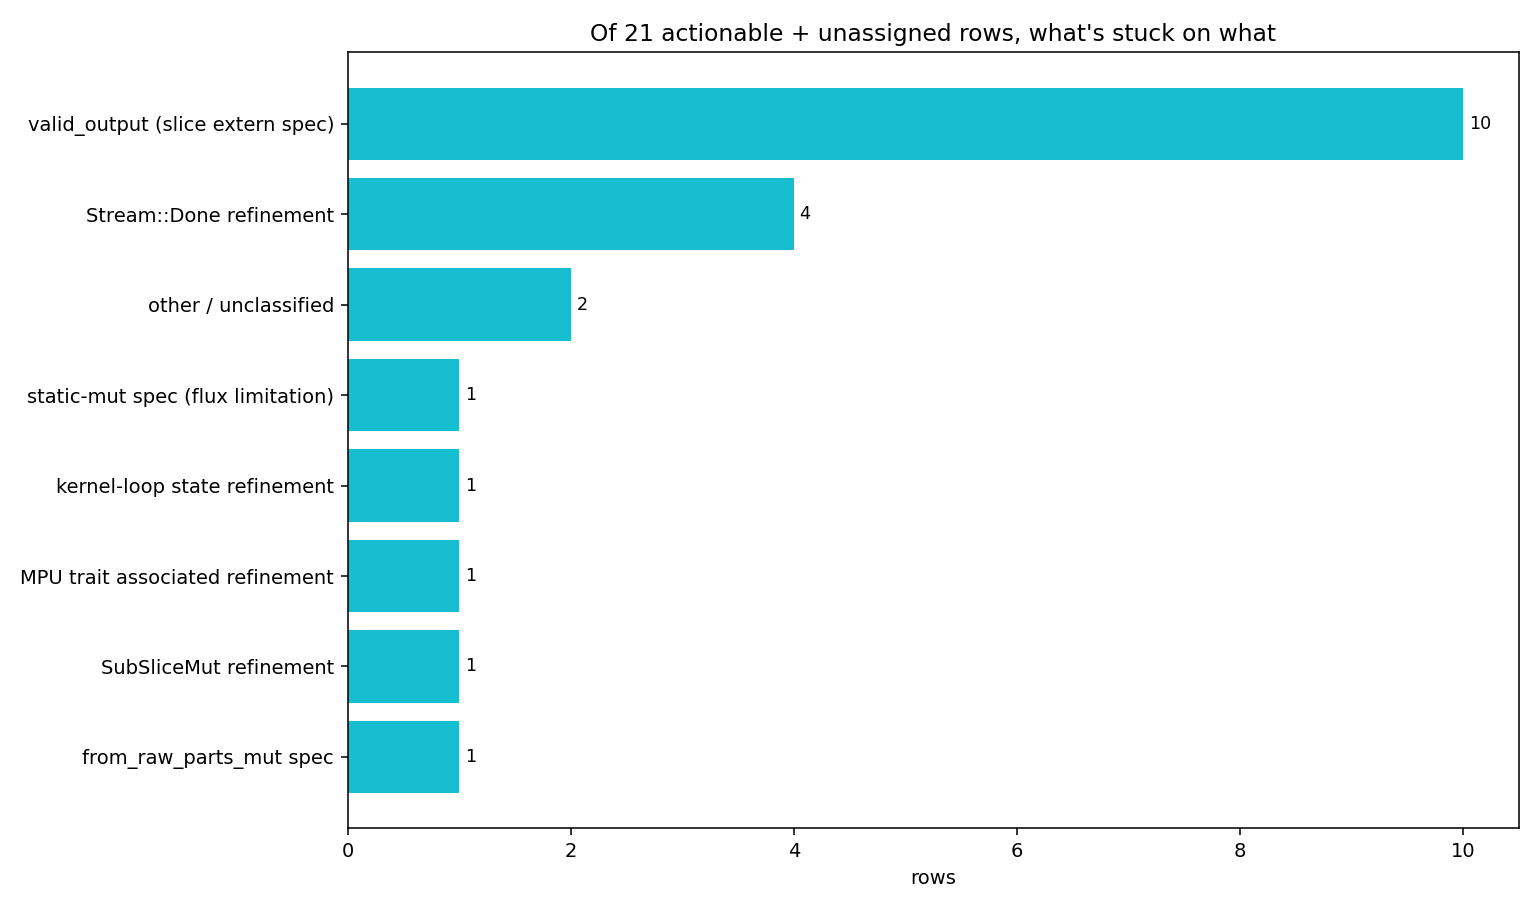
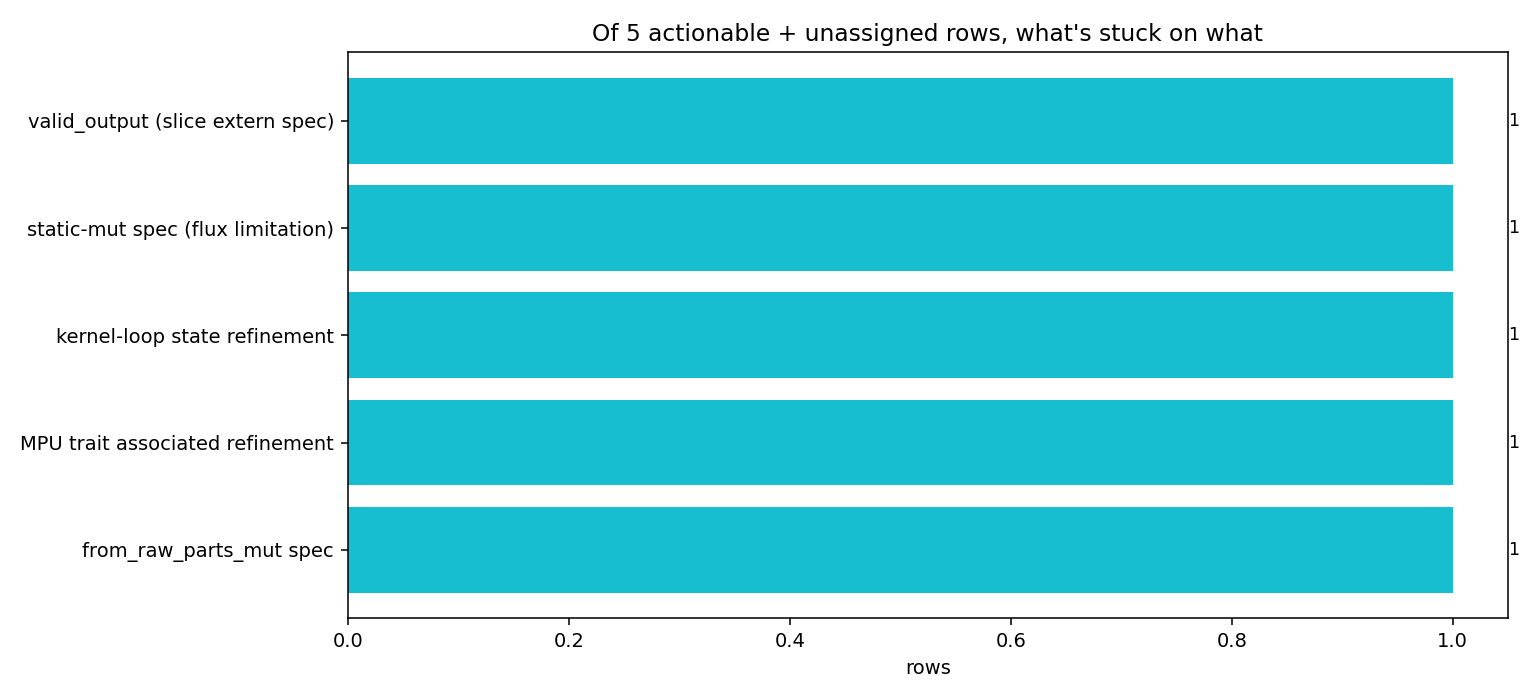
Update bar graph for wednesday meeting

diff --git a/tools/panic_sites.md b/tools/panic_sites.md
@@ -333,8 +333,8 @@ Each panic site has a verification status (orthogonal to `Blockers`; ownership l
 
 | Addr | Flavor | Location | Source | Notes | Blockers | Status | Assignee |
 |---|---|---|---|---|---|---|---|
-| `0xf44c` | `explicit_panic` | [arch/cortex-m/src/lib.rs:148](https://github.com/ninehusky/tock/blob/9548b2ed92b4da0094fe6c11b8ea3e4a273988de/arch/cortex-m/src/lib.rs#L148) | `panic!("Unhandled Interrupt. ISR {} is active.", interrupt_number);` | `#[flux_rs::sig(fn() requires false)]` on both cfg arms — Flux checks the host body (unimplemented!()) under `false` and discharges trivially. Outstanding debt (FLUX-TODO at decl): chip vector tables still install this as a hardware exception handler via fn-pointer coercion (doesn't trigger Flux's precondition); to fully close, prove each such exception is hardware-disabled or remapped. | `locally_proven` | done | andrew |
-| `0xf4d2` | `slice_order` | [arch/cortex-m/src/syscall.rs:88](https://github.com/ninehusky/tock/blob/9548b2ed92b4da0094fe6c11b8ea3e4a273988de/arch/cortex-m/src/syscall.rs#L88) | `slice[range].copy_from_slice(&val.to_le_bytes());` | Split into `usize_byte_range` (sig: `Range<usize>[i*4, (i+1)*4] requires i < 256`) and `copy_le_into` (cross-target trust only on `copy_from_slice` src length). `write_usize_to_u8_slice` is checked: Flux verifies the `slice[range]` op via the range sig (start < end trivially) and the precondition `n >= (i+1)*4`. | `locally_proven` | done | andrew |
+| `0xf44c` | `explicit_panic` | [arch/cortex-m/src/lib.rs:148](https://github.com/ninehusky/tock/blob/9548b2ed92b4da0094fe6c11b8ea3e4a273988de/arch/cortex-m/src/lib.rs#L148) | `panic!("Unhandled Interrupt. ISR {} is active.", interrupt_number);` | `#[flux_rs::sig(fn() requires false)]` on both cfg arms — Flux checks the host body (unimplemented!()) under `false` and discharges trivially. Outstanding debt (FLUX-TODO at decl): chip vector tables still install this as a hardware exception handler via fn-pointer coercion (doesn't trigger Flux's precondition); to fully close, prove each such exception is hardware-disabled or remapped. | locally proven | done | andrew |
+| `0xf4d2` | `slice_order` | [arch/cortex-m/src/syscall.rs:88](https://github.com/ninehusky/tock/blob/9548b2ed92b4da0094fe6c11b8ea3e4a273988de/arch/cortex-m/src/syscall.rs#L88) | `slice[range].copy_from_slice(&val.to_le_bytes());` | Split into `usize_byte_range` (sig: `Range<usize>[i*4, (i+1)*4] requires i < 256`) and `copy_le_into` (cross-target trust only on `copy_from_slice` src length). `write_usize_to_u8_slice` is checked: Flux verifies the `slice[range]` op via the range sig (start < end trivially) and the precondition `n >= (i+1)*4`. | locally proven | done | andrew |
 | `0xf5a6` | `div_by_zero` | [arch/cortex-m/src/systick.rs:208](https://github.com/ninehusky/tock/blob/9548b2ed92b4da0094fe6c11b8ea3e4a273988de/arch/cortex-m/src/systick.rs#L208) | `Some(((tics * 1_000_000) / hertz) as u32)` | Per-fn flux now wired up: `pub mod systick;` no longer carries `#[flux_rs::ignore]`, and Cargo.toml has `include = ["def:get_remaining_us"]`. Flux flags the div_by_zero correctly at line 208. Discharge requires `hertz() > 0`, which is true in the `self.hertz != 0` body branch but NOT provable in the else branch (`tenms * 100` from a SysTick calibration register read — can be 0 on uncalibrated hardware). Currently sketched with `#[flux_rs::trusted]` + sig `r > 0` on `hertz()`, but that's a hardware assumption, not a code-level proof. To genuinely close: either prove non-zero hardware calibration via a board-init invariant on SysTick state, or accept the row as `blocked_arch_hardware_trust`. | `blocked_arch` | not started | andrew |
 | `0x102d6` | `explicit_panic` | [arch/cortex-v7m/src/lib.rs:296](https://github.com/ninehusky/tock/blob/9548b2ed92b4da0094fe6c11b8ea3e4a273988de/arch/cortex-v7m/src/lib.rs#L296) | `panic!("kernel stack overflow");` | Inside `hard_fault_handler_arm_v7m_kernel`, which only exists under arm/none cfg (no host mock) and is entered only via inline-asm `sym` from the hardware hardfault path. Flux can't see the body, and the "annotate, don't add code" rule means we won't fabricate a host mock just to verify a `requires false` contract. Hardware-reachability claim, not a rust-level one. | `blocked_hw_trust` | not started |  |
 | `0x102bc` | `explicit_panic` | [arch/cortex-v7m/src/lib.rs:345](https://github.com/ninehusky/tock/blob/9548b2ed92b4da0094fe6c11b8ea3e4a273988de/arch/cortex-v7m/src/lib.rs#L345) | `panic!(` | Same `hard_fault_handler_arm_v7m_kernel` body as 0x102d6. Same `blocked_hw_trust` reasoning: arm/none-only, asm-entered, no host mock to annotate. | `blocked_hw_trust` | not started |  |